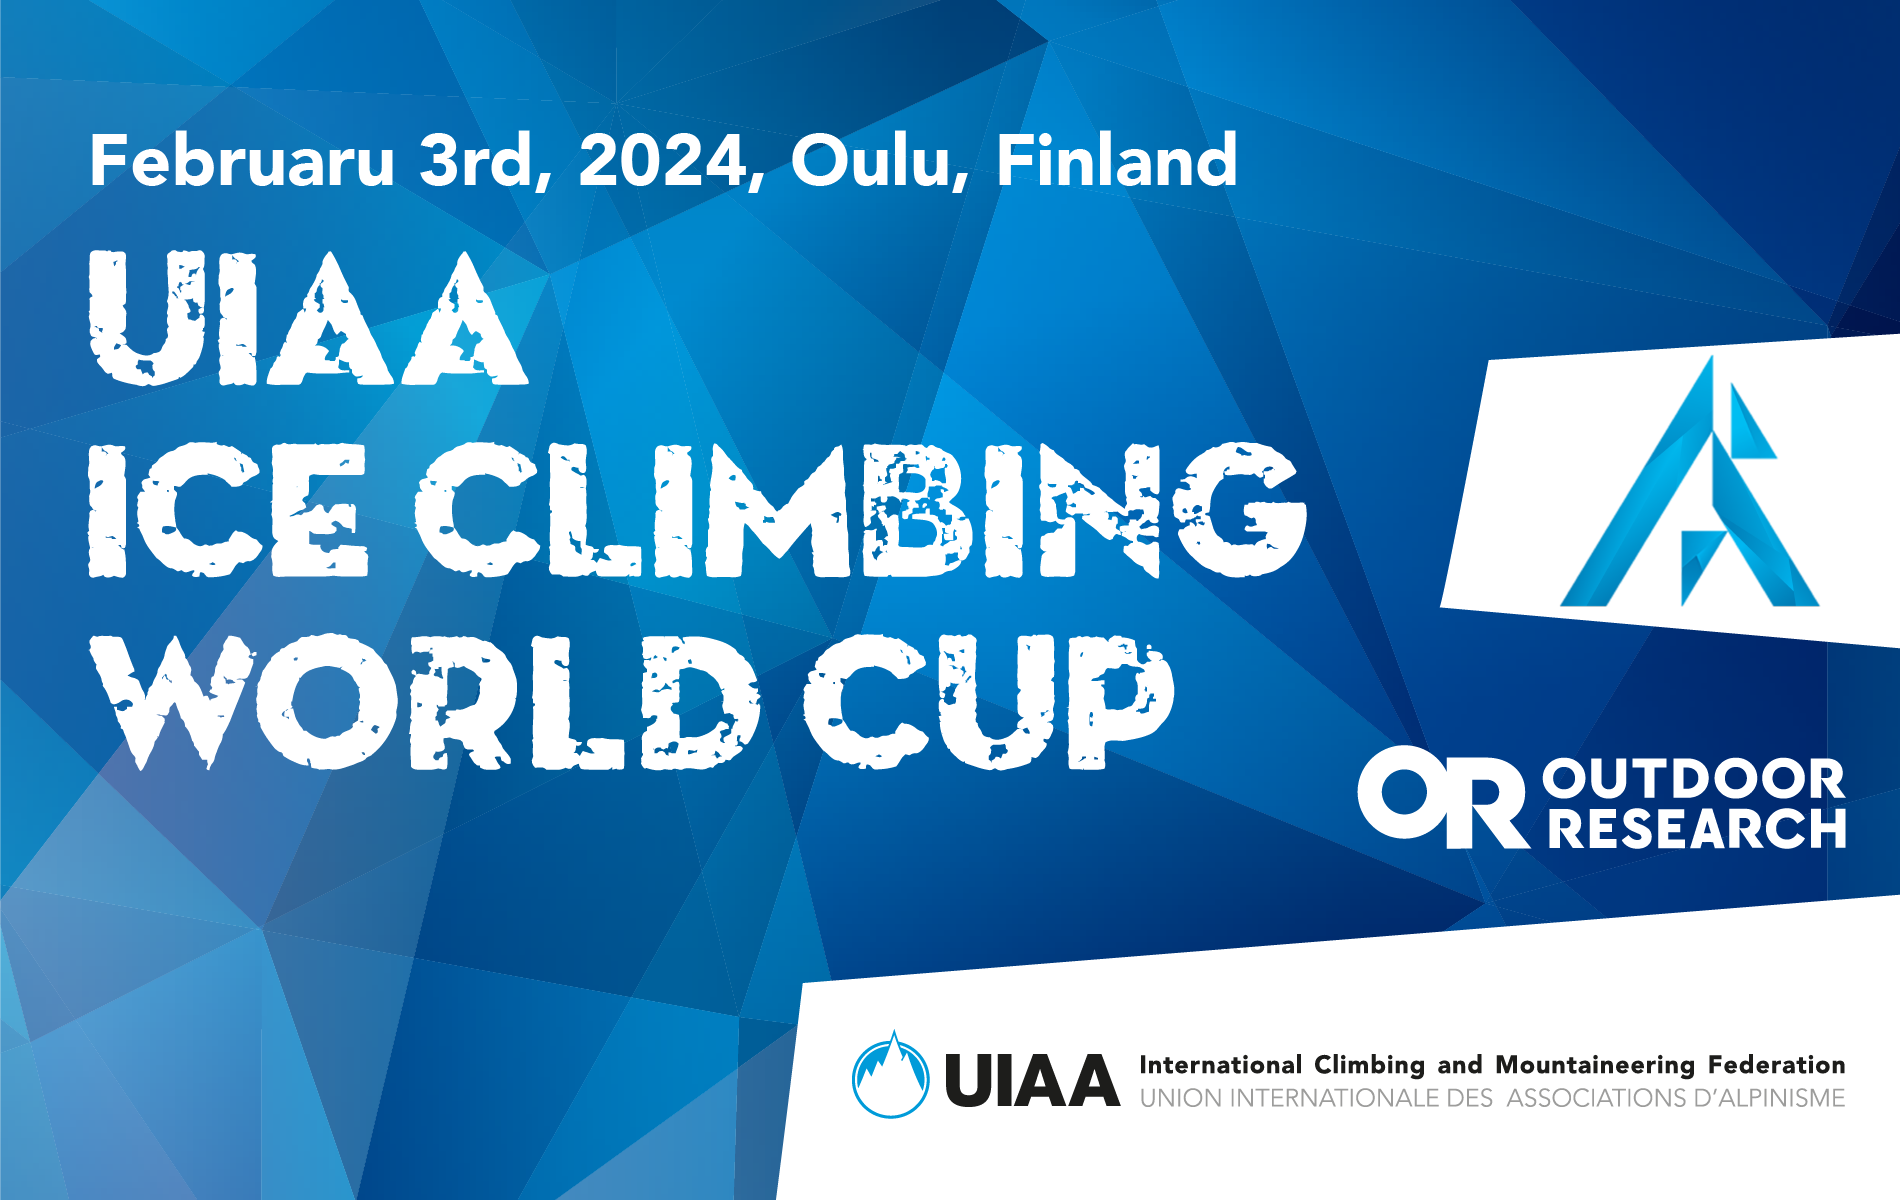
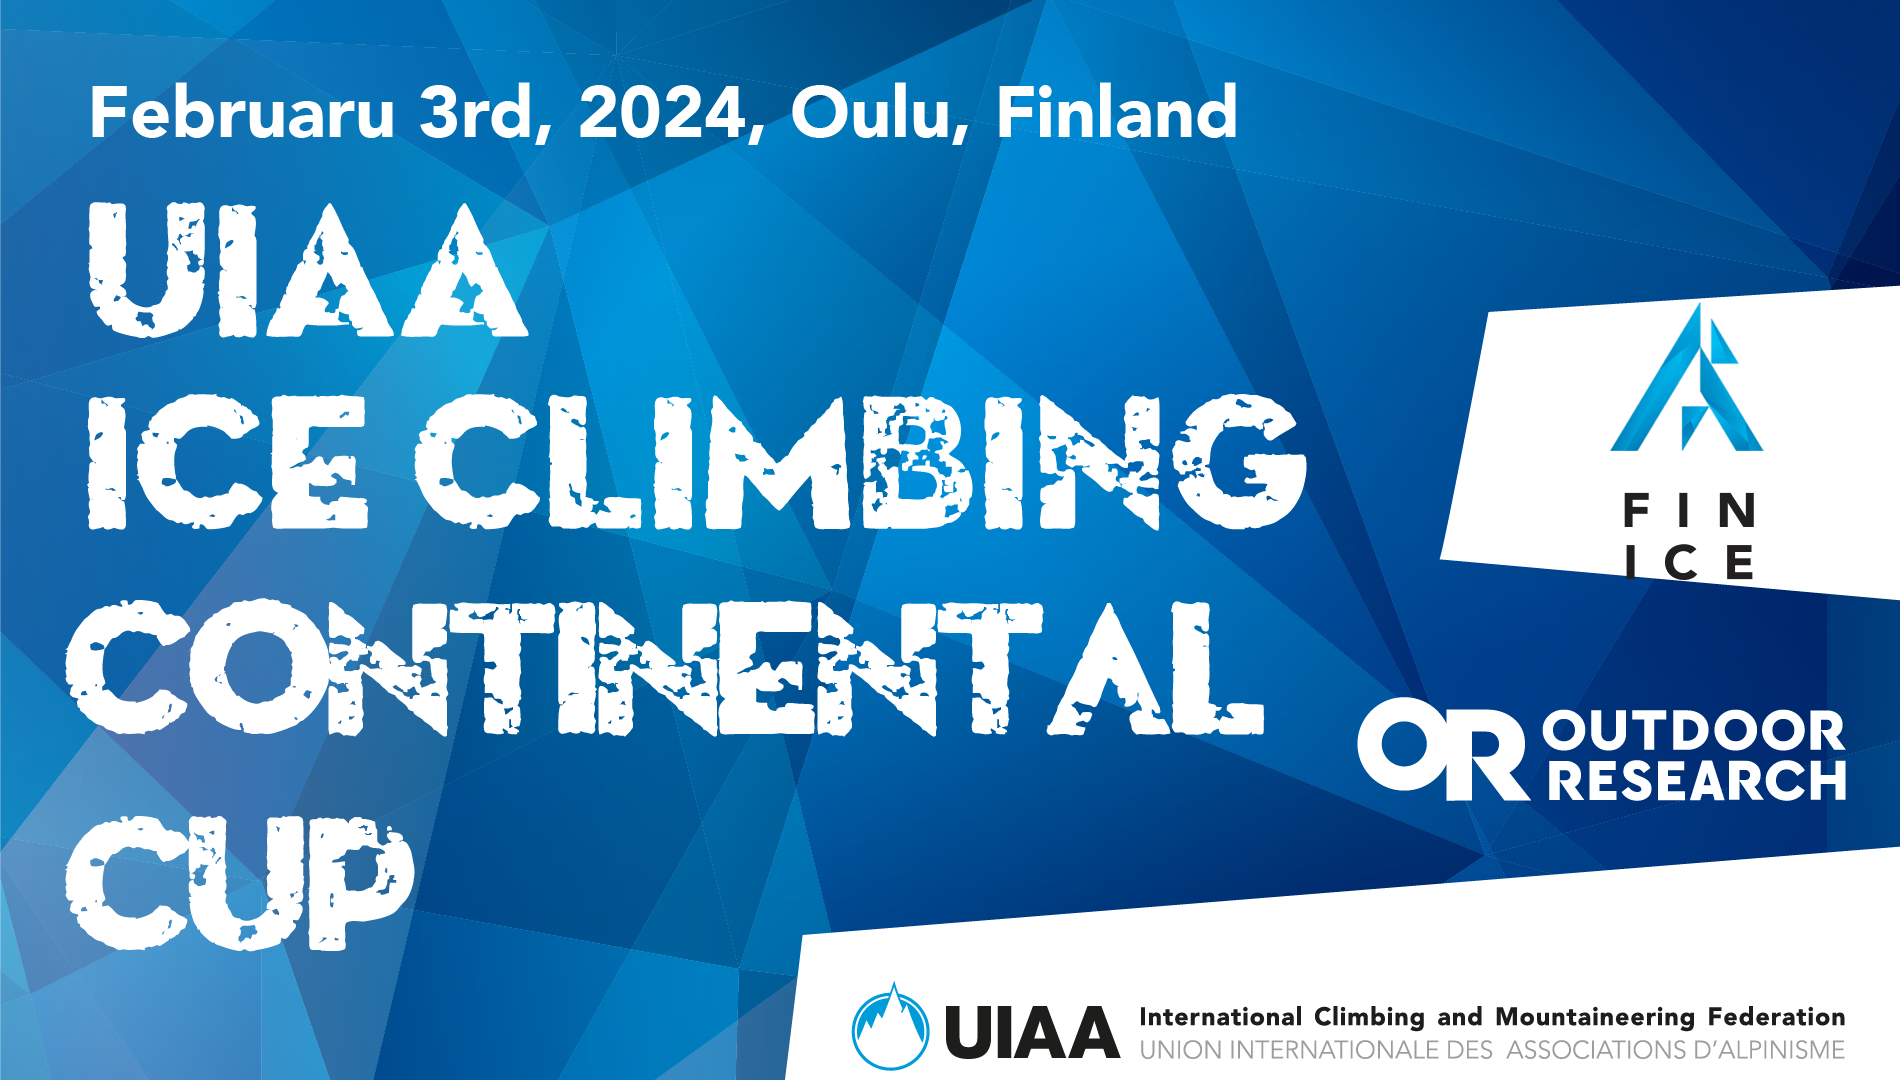
continental cup

diff --git a/index.html b/index.html
@@ -1,29 +1,29 @@
 <!DOCTYPE HTML>
 <html class="no-js" lang="en">
 <head>
-	<title>Ice Climbing European Cup 2024</title>
+	<title>Ice Climbing Continental Cup 2024</title>
 	<link rel="stylesheet" href="https://fonts.googleapis.com/css?family=Open+Sans:400,400i,700,700i">
 	<meta charset="utf-8">
-	<meta name="Description" content="UIAA Ice Climbing European Cup 2024">
+	<meta name="Description" content="UIAA Ice Climbing Continental Cup 2024">
 	<meta name="viewport" content="width=device-width,initial-scale=1">
 	<link rel="stylesheet" href="./_assets/css/normalize.min.css">
 	<link rel="stylesheet" href="./_assets/css/main.css">
 	<link rel="stylesheet" href="./_assets/css/mq.css">
 	<script src="./_assets/js/lib/modernizr-2.6.1.min.js"></script>
 
-	<meta name="description" content="UIAA Ice Climbing European Cup 2024 and Finnish National Championships in Oulu 3.2.2024">
+	<meta name="description" content="UIAA Ice Climbing Continent Cup 2024 and Finnish National Championships in Oulu 3.2.2024">
 	<meta name="robots" content="index, follow">
 	<link rel="canonical" href="https://www.finice2024.com/">
 	<meta property="og:locale" content="en_gb">
 	<meta property="og:type" content="website">
-	<meta property="og:title" content="UIAA Ice Climbing European Cup 2024 and Finnish National Championships in Oulu 3.2.2024">
-	<meta property="og:description" content="UIAA Ice Climbing European Cup 2024 and Finnish National Championships in Oulu 3.2.2024">
+	<meta property="og:title" content="UIAA Ice Climbing Continental Cup 2024 and Finnish National Championships in Oulu 3.2.2024">
+	<meta property="og:description" content="UIAA Ice Climbing Continental Cup 2024 and Finnish National Championships in Oulu 3.2.2024">
 	<meta property="og:url" content="https://www.finice2024.com/">
 	<meta property="og:site_name" content="Finice 2024">
 	<meta property="og:image" content="https://www.finice2024.com/_assets/img/shareimg.jpg">
 	<meta name="twitter:card" content="summary_large_image">
-	<meta name="twitter:description" content="UIAA Ice Climbing European Cup 2024 and Finnish National Championships in Oulu 3.2.2024">
-	<meta name="twitter:title" content="UIAA Ice Climbing European Cup 2024 and Finnish National Championships in Oulu 3.2.2024">
+	<meta name="twitter:description" content="UIAA Ice Climbing Continental Cup 2024 and Finnish National Championships in Oulu 3.2.2024">
+	<meta name="twitter:title" content="UIAA Ice Climbing Continental Cup 2024 and Finnish National Championships in Oulu 3.2.2024">
 	<meta name="twitter:image" content="https://www.finice2024.com/_assets/img/shareimg.jpg">
 	
 	<!-- faviconit kaikille alustoille-->
@@ -99,7 +99,7 @@
 			<div class="column-row wrapper narrow">
 				<div class="column single centered">
 					<p class="lead hilite " style="padding: 0 0 0.5em;"><a href="http://www.oulunkiipeilyseura.fi/" target="_blank">The Climbing Club of Oulu</a> and <a href="https://www.theuiaa.org/ice-climbing/" target="_blank">UIAA</a> <br>proudly present:
-					</p><p class="lead hilite upper">UIAA Ice Climbing European Cup 2024 and Finnish National Championships in Oulu 3.2.2024</p>
+					</p><p class="lead hilite upper">UIAA Ice Climbing Continental Cup 2024 and Finnish National Championships in Oulu 3.2.2024</p>
 					<br>
 				</div>
 				<br><BR>
@@ -155,8 +155,8 @@
 		
 				<div class="column single centered">
 					<h1 class="upper">COMPETITOR REGISTRATION</h1>
-					<h2 class="upper">EUROPEAN CUP 2024</h2>
-					<p>Athlete registration is done by purchasing the European Cup ticket at the venue and registering to UIAA.</p>
+					<h2 class="upper">Continental CUP 2024</h2>
+					<p>Athlete registration is done by purchasing the Continental Cup ticket at the venue and registering to UIAA.</p>
 				</div>
 				<br>
 
